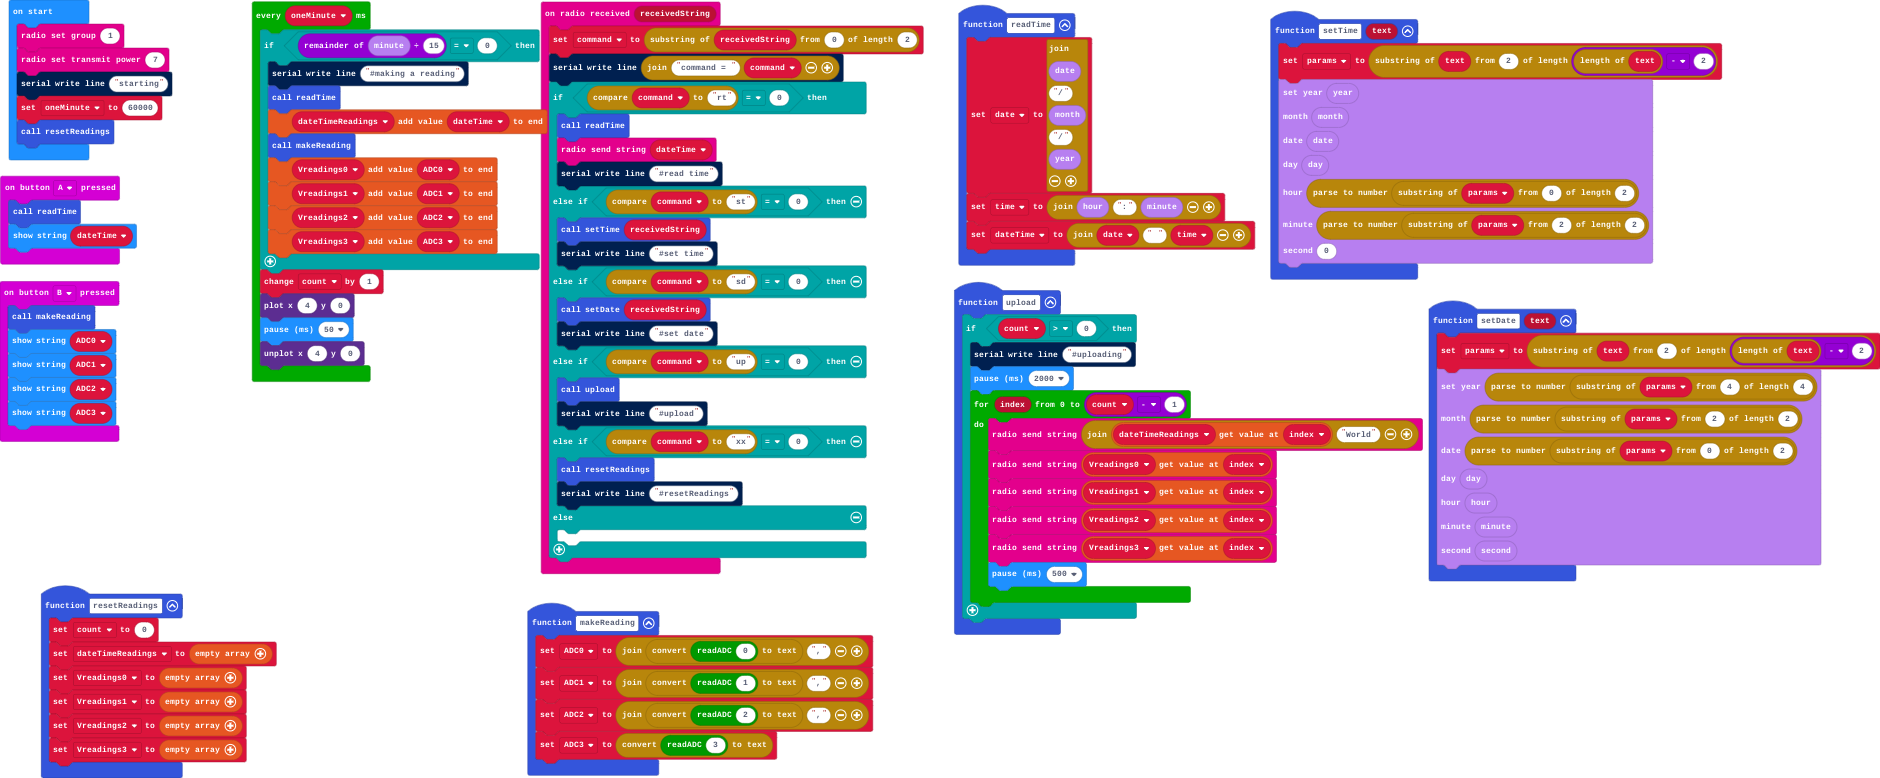
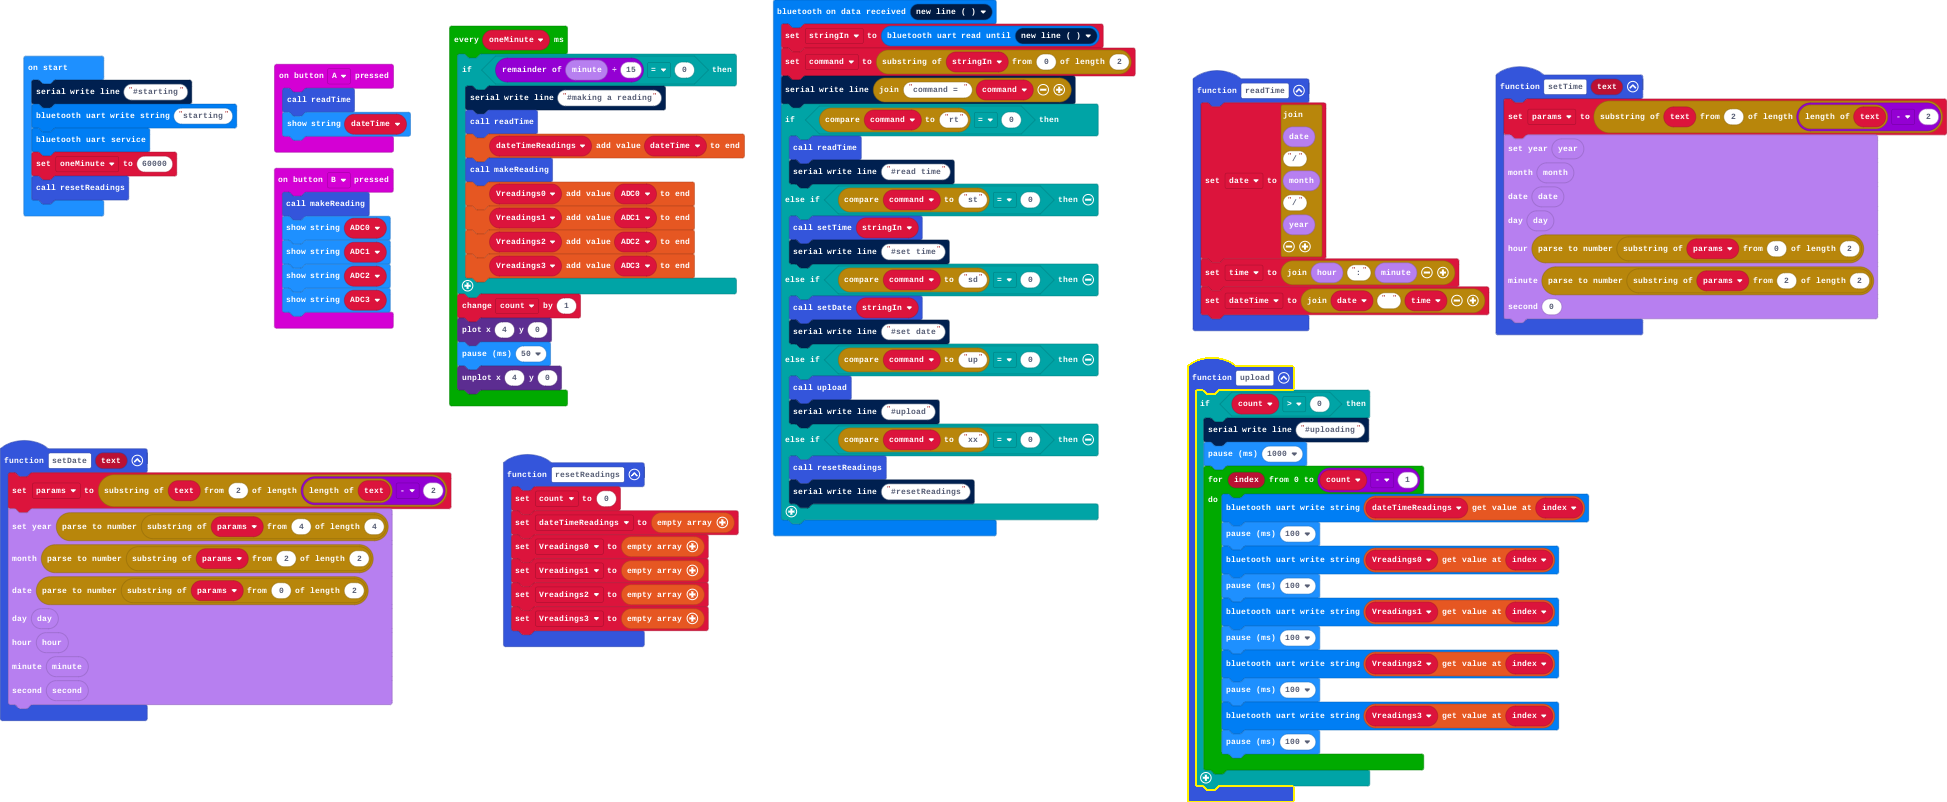
changed from Radio to BT

diff --git a/main.ts b/main.ts
@@ -4,10 +4,7 @@ function readTime () {
     dateTime = "" + date + " " + time
 }
 function makeReading () {
-    ADC0 = "" + convertToText(ADS1115.readADC(0)) + ","
-    ADC1 = "" + convertToText(ADS1115.readADC(1)) + ","
-    ADC2 = "" + convertToText(ADS1115.readADC(2)) + ","
-    ADC3 = convertToText(ADS1115.readADC(3))
+    ADC0 = "" + convertToText(0)
 }
 function resetReadings () {
     count = 0
@@ -33,17 +30,42 @@ function setDate (text: string) {
     DS3231.second()
     )
 }
+bluetooth.onUartDataReceived(serial.delimiters(Delimiters.NewLine), function () {
+    stringIn = bluetooth.uartReadUntil(serial.delimiters(Delimiters.NewLine))
+    command = stringIn.substr(0, 2)
+    serial.writeLine("command = " + command)
+    if (command.compare("rt") == 0) {
+        readTime()
+        serial.writeLine("#read time")
+    } else if (command.compare("st") == 0) {
+        setTime(stringIn)
+        serial.writeLine("#set time")
+    } else if (command.compare("sd") == 0) {
+        setDate(stringIn)
+        serial.writeLine("#set date")
+    } else if (command.compare("up") == 0) {
+        upload()
+        serial.writeLine("#upload")
+    } else if (command.compare("xx") == 0) {
+        resetReadings()
+        serial.writeLine("#resetReadings")
+    }
+})
 function upload () {
     if (count > 0) {
         serial.writeLine("#uploading")
-        basic.pause(2000)
+        basic.pause(1000)
         for (let index = 0; index <= count - 1; index++) {
-            radio.sendString("" + dateTimeReadings[index] + "World")
-            radio.sendString("" + (Vreadings0[index]))
-            radio.sendString("" + (Vreadings1[index]))
-            radio.sendString("" + (Vreadings2[index]))
-            radio.sendString("" + (Vreadings3[index]))
-            basic.pause(500)
+            bluetooth.uartWriteString(dateTimeReadings[index])
+            basic.pause(100)
+            bluetooth.uartWriteString(Vreadings0[index])
+            basic.pause(100)
+            bluetooth.uartWriteString(Vreadings1[index])
+            basic.pause(100)
+            bluetooth.uartWriteString(Vreadings2[index])
+            basic.pause(100)
+            bluetooth.uartWriteString(Vreadings3[index])
+            basic.pause(100)
         }
     }
 }
@@ -59,29 +81,6 @@ function setTime (text: string) {
     0
     )
 }
-radio.onReceivedString(function (receivedString) {
-    command = receivedString.substr(0, 2)
-    serial.writeLine("command = " + command)
-    if (command.compare("rt") == 0) {
-        readTime()
-        radio.sendString(dateTime)
-        serial.writeLine("#read time")
-    } else if (command.compare("st") == 0) {
-        setTime(receivedString)
-        serial.writeLine("#set time")
-    } else if (command.compare("sd") == 0) {
-        setDate(receivedString)
-        serial.writeLine("#set date")
-    } else if (command.compare("up") == 0) {
-        upload()
-        serial.writeLine("#upload")
-    } else if (command.compare("xx") == 0) {
-        resetReadings()
-        serial.writeLine("#resetReadings")
-    } else {
-    	
-    }
-})
 input.onButtonPressed(Button.B, function () {
     makeReading()
     basic.showString(ADC0)
@@ -89,7 +88,11 @@ input.onButtonPressed(Button.B, function () {
     basic.showString(ADC2)
     basic.showString(ADC3)
 })
+let ADC3 = ""
+let ADC2 = ""
+let ADC1 = ""
 let command = ""
+let stringIn = ""
 let params = ""
 let Vreadings3: string[] = []
 let Vreadings2: string[] = []
@@ -97,16 +100,13 @@ let Vreadings1: string[] = []
 let Vreadings0: string[] = []
 let dateTimeReadings: string[] = []
 let count = 0
-let ADC3 = ""
-let ADC2 = ""
-let ADC1 = ""
 let ADC0 = ""
 let dateTime = ""
 let time = ""
 let date = ""
-radio.setGroup(1)
-radio.setTransmitPower(7)
-serial.writeLine("starting")
+serial.writeLine("#starting")
+bluetooth.uartWriteString("starting")
+bluetooth.startUartService()
 let oneMinute = 60000
 resetReadings()
 loops.everyInterval(oneMinute, function () {
